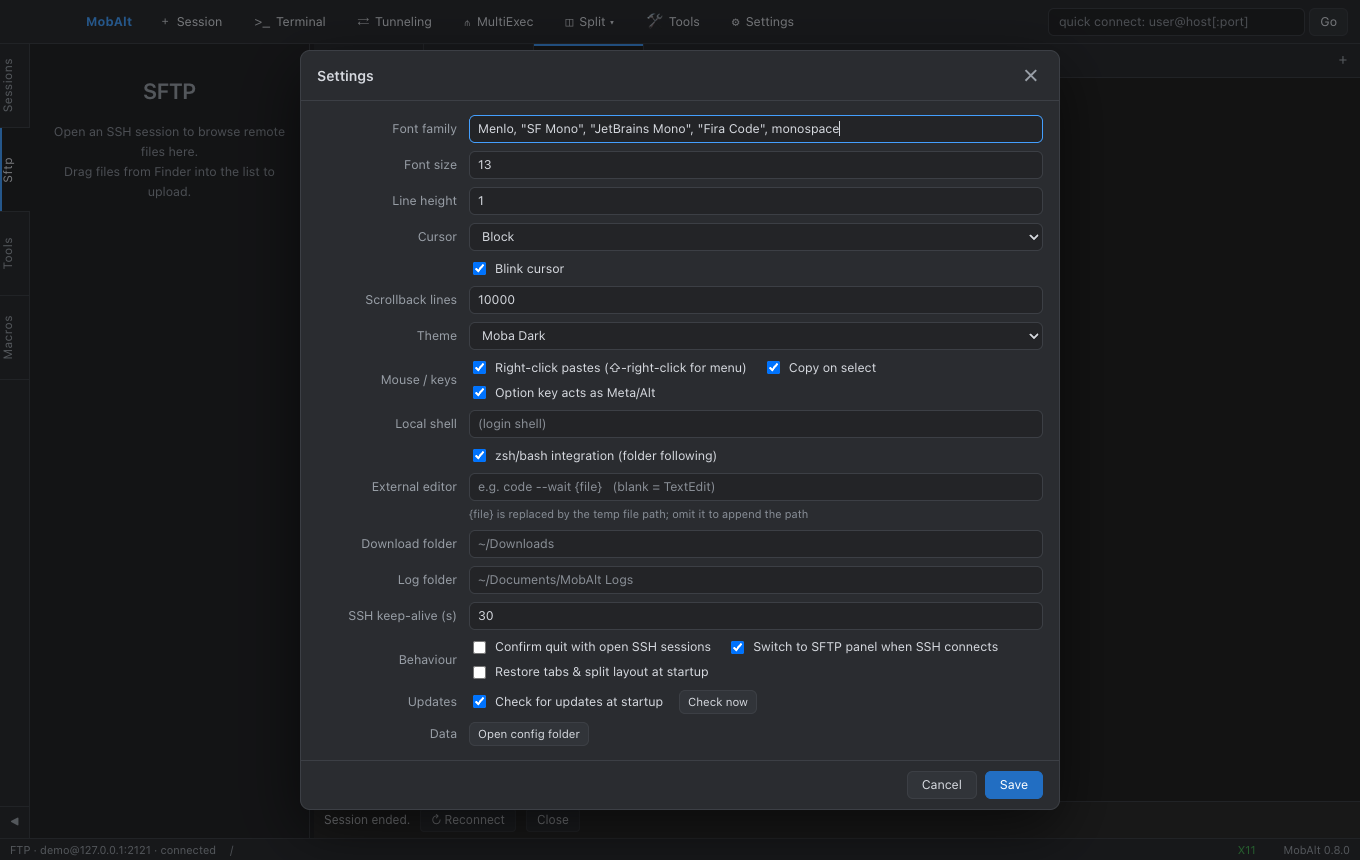
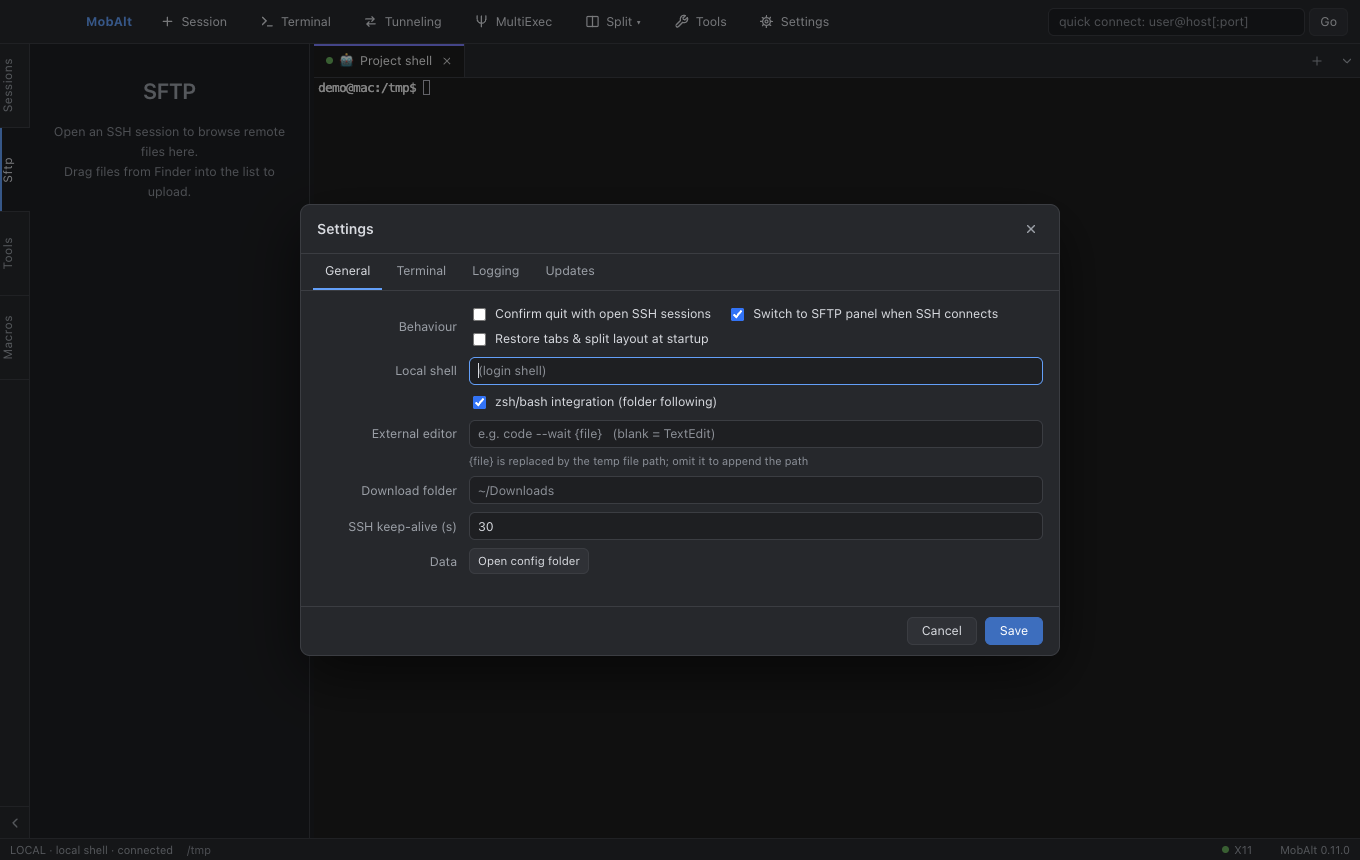
feat(ui): settings in tabs that fit the minimum window; compact shortcuts dialog
Settings was one long form that scrolled at heights <= 800px with the Updates row below
the fold. It is now four section tabs on the modal's .mtabs strip (General / Terminal /
Logging / Updates); every field keeps its id, label, persistence key and the Save/Cancel
semantics, "Check now" and its status line sit on Updates, and each tab fits 900x560
without scrolling (dialog <= 452px). The body keeps the height of the tallest tab so the
dialog does not jump between sections.

The Keyboard shortcuts dialog still scrolled vertically at 900x560: its rows are grouped
into section tabs (Sessions & tabs / Panes & terminal / Sidebar, SFTP & lists / Dialogs),
two columns each, and gain the dialog keys (confirm/close, Tab, section arrows).

modalTabs()/tabStripKeys() build the strip with tablist/tab/tabpanel roles; every tab is
a Tab stop like the session editor's and Left/Right/Home/End switch the section (the
session editor's strip gets the arrows too). The tab focus ring is drawn inset so the
scrolling body no longer clips it.

Tests: e2e-a11y meets the section tabs in the focus-trap block and checks every
shortcuts section at 900x560 (shortcutsFitSmallWindow); e2e-qa-fixes checks the four
settings tabs fit at 900x560, the first field is focused and fields round-trip through
Save from every tab. Docs name the tabs (Settings -> General/Terminal/Logging/Updates)
and the Settings screenshot is regenerated.

diff --git a/src/renderer/dialogs.js b/src/renderer/dialogs.js
@@ -64,6 +64,55 @@ function pickRow(label) {
   return row;
 }
 
+/**
+ * ←/→ (↑/↓) on a dialog's `.mtabs` strip move between its section tabs (wrapping, hidden ones skipped) and show that
+ * section; Home/End jump to the first/last. Every tab stays a Tab stop of its own, so Tab/⇧Tab reach them as well.
+ */
+function tabStripKeys(strip) {
+  strip.addEventListener('keydown', (e) => {
+    const tabs = [...strip.querySelectorAll('button:not([hidden])')];
+    const i = tabs.indexOf(e.target), n = tabs.length;
+    if (i < 0 || e.metaKey || e.ctrlKey || e.altKey) return;
+    let to;
+    if (e.key === 'ArrowRight' || e.key === 'ArrowDown') to = tabs[(i + 1) % n];
+    else if (e.key === 'ArrowLeft' || e.key === 'ArrowUp') to = tabs[(i - 1 + n) % n];
+    else if (e.key === 'Home') to = tabs[0];
+    else if (e.key === 'End') to = tabs[n - 1];
+    else return;
+    e.preventDefault();
+    to.focus();
+    to.click();
+  });
+  return strip;
+}
+let tabSeq = 0;
+/**
+ * Section tabs of a dialog: the `.mtabs` strip (a tablist) and one `.mpage` panel per section, the first one shown.
+ * `sections` = [[key, label, panel], …]; returns { strip, pages, show(key) }. Every panel stays in the DOM, so a
+ * Save handler reads all its fields whichever section is in front.
+ */
+function modalTabs(sections) {
+  const seq = ++tabSeq;
+  const btns = {}, pages = {};
+  const show = (k) => {
+    for (const key of Object.keys(pages)) {
+      pages[key].classList.toggle('active', key === k);
+      btns[key].classList.toggle('active', key === k);
+      btns[key].setAttribute('aria-selected', String(key === k));
+    }
+  };
+  const strip = tabStripKeys(h('div', { class: 'mtabs', role: 'tablist' }, sections.map(([k, label, page]) => {
+    page.classList.add('mpage');
+    page.id = `mtab-${seq}-${k}`;
+    page.setAttribute('role', 'tabpanel');
+    page.setAttribute('aria-label', label);
+    pages[k] = page;
+    return (btns[k] = h('button', { type: 'button', role: 'tab', 'aria-controls': page.id, onclick: () => show(k) }, label));
+  })));
+  show(sections[0][0]);
+  return { strip, pages, show };
+}
+
 /** Session editor. Resolves with the session object to save, or null. */
 export function sessionEditor(app, initial = {}) {
   const s = { type: 'ssh', port: 22, authMethod: 'auto', sftpAuto: true, followCwd: false, tunnels: [], ...initial };
@@ -219,7 +268,7 @@ export function sessionEditor(app, initial = {}) {
     tunnels: h('div', { class: 'mpage' }, h('p', { style: { color: 'var(--fg-dim)', marginTop: 0 } }, 'Port forwards started automatically when this session connects.'), tunnelTable),
   };
   const tabBtns = {};
-  const tabs = h('div', { class: 'mtabs' }, Object.keys(pages).map((k) => (tabBtns[k] = h('button', { onclick: () => showPage(k) }, { basic: 'Basic', advanced: 'Advanced SSH', terminal: 'Terminal', tunnels: `Tunnels` }[k]))));
+  const tabs = tabStripKeys(h('div', { class: 'mtabs' }, Object.keys(pages).map((k) => (tabBtns[k] = h('button', { onclick: () => showPage(k) }, { basic: 'Basic', advanced: 'Advanced SSH', terminal: 'Terminal', tunnels: `Tunnels` }[k])))));
   const showPage = (k) => {
     for (const [n, p] of Object.entries(pages)) {
       p.classList.toggle('active', n === k);
@@ -509,22 +558,36 @@ export function settingsDialog(app) {
       updStatus.textContent = e.message;
     }
   } }, 'Check now');
-  const m = showModal({
-    title: 'Settings',
-    width: 'wide',
-    body: h('div', { class: 'form-grid' },
+  // Four section tabs (General / Terminal / Logging / Updates): each fits the 900×560 minimum window without scrolling.
+  // Every field stays in the DOM whichever tab is in front, so Save reads them all.
+  const { strip, pages } = modalTabs([
+    ['general', 'General', h('div', { class: 'form-grid' },
+      h('label', {}, 'Behaviour'), h('div', { class: 'checks' }, confirmClose.el, sftpAutoOpen.el, restoreWs.el),
+      ...field('Local shell', localShell), h('label', {}), h('div', { class: 'checks' }, shellInt.el),
+      ...field('External editor', editor, '{file} is replaced by the temp file path; omit it to append the path'),
+      ...field('Download folder', downloadDir), ...field('SSH keep-alive (s)', keepAlive),
+      h('label', {}, 'Data'), h('div', {}, h('button', { class: 'btn small', onclick: () => window.api.shell.openPath(app.info.userData) }, 'Open config folder'))
+    )],
+    ['terminal', 'Terminal', h('div', { class: 'form-grid' },
       ...field('Font family', fontFamily), ...field('Font size', fontSize), ...field('Line height', lineHeight),
       ...field('Cursor', cursorStyle), h('label', {}), h('div', { class: 'checks' }, cursorBlink.el),
       ...field('Scrollback lines', scrollback), ...field('Theme', theme),
-      h('label', {}, 'Mouse / keys'), h('div', { class: 'checks' }, rightClickPaste.el, copyOnSelect.el, optMeta.el),
-      ...field('Local shell', localShell), h('label', {}), h('div', { class: 'checks' }, shellInt.el),
-      ...field('External editor', editor, '{file} is replaced by the temp file path; omit it to append the path'),
-      ...field('Download folder', downloadDir), ...field('Log folder', logDir), ...field('SSH keep-alive (s)', keepAlive),
-      h('label', {}, 'Logging'), h('div', { class: 'checks' }, logPlain.el),
-      h('label', {}, 'Behaviour'), h('div', { class: 'checks' }, confirmClose.el, sftpAutoOpen.el, restoreWs.el),
-      h('label', {}, 'Updates'), h('div', { class: 'checks' }, autoUpdate.el, checkNow, updStatus),
-      h('label', {}, 'Data'), h('div', {}, h('button', { class: 'btn small', onclick: () => window.api.shell.openPath(app.info.userData) }, 'Open config folder'))
-    ),
+      h('label', {}, 'Mouse / keys'), h('div', { class: 'checks' }, rightClickPaste.el, copyOnSelect.el, optMeta.el)
+    )],
+    ['logging', 'Logging', h('div', { class: 'form-grid' },
+      ...field('Log folder', logDir, 'Terminal → Start Session Log, or a session\'s Logging option, writes here'),
+      h('label', {}, 'Session logs'), h('div', { class: 'checks' }, logPlain.el)
+    )],
+    ['updates', 'Updates', h('div', { class: 'form-grid' },
+      h('label', {}, 'Updates'), h('div', { class: 'checks' }, autoUpdate.el),
+      h('div', { class: 'form-help' }, 'Releases on GitHub; a newer version is offered in a dialog and installed only when you agree'),
+      h('label', {}), h('div', { class: 'checks' }, checkNow, updStatus)
+    )],
+  ]);
+  const m = showModal({
+    title: 'Settings',
+    width: 'wide',
+    body: h('div', { class: 'settings-tabs' }, strip, ...Object.values(pages)),
     buttons: [
       { label: 'Cancel', value: null },
       { label: 'Save', primary: true, action: (api) => api.close({
@@ -595,19 +658,32 @@ export function kbdIntDialog(p) {
 }
 
 export function shortcutsDialog(app) {
-  const rows = [
-    ['New session', '⌘N'], ['New local terminal', '⌘T'], ['Quick connect', '⇧⌘N'], ['Duplicate session', '⇧⌘T'], ['Reconnect', '⌘R'], ['Close tab', '⌘W'],
-    ['Split right / down', '⌘D / ⇧⌘D'], ['Grid 2 / 4 / 6 / 8 panes', '⌥⌘2 / ⌥⌘4 / ⌥⌘6 / ⌥⌘8'], ['Unsplit', '⌥⌘1'], ['Close pane', '⇧⌘W'], ['Next pane', '⌘]'], ['Next / previous tab', '⌃Tab / ⌃⇧Tab'],
-    ['Find', '⌘F'], ['Clear terminal', '⌘K'], ['Zoom', '⌘= / ⌘- / ⌘0'], ['Toggle sidebar', '⌘B'], ['Sessions / SFTP / Tools / Macros', '⌘1 / ⌘2 / ⌘3 / ⌘4'],
-    ['MultiExec', '⇧⌘M'], ['Tunnels', '⇧⌘U'], ['Settings', '⌘,'], ['Copy / Paste', '⌘C / ⌘V'], ['Paste (terminal)', app.settings.rightClickPaste !== false ? 'Right-click' : '⌘V'], ['Terminal menu', app.settings.rightClickPaste !== false ? '⇧Right-click' : 'Right-click'],
-    ['Switch to tab 1-9', '⌃⌘1 … ⌃⌘9'], ['Newline in TUI apps (ESC+CR)', '⇧Enter / ⌥Enter'],
-    ['Focused tab: move / activate / close', '← → / ⏎ / ⌫'], ['Focused session row: move / fold / open', '↑ ↓ / ← → / ⏎'],
-    ['Focused session row: open in split / delete', '⌘⏎ or ⇧⏎ / ⌫'], ['Context menu: focused tab, row, macro, SFTP entry', '⇧F10 / Menu key'],
-    ['Focused macro: play / delete, context menu', '⏎ / ⌫, ⇧F10'], ['SFTP list: context menu / delete / parent folder', '⇧F10 or Menu / Del or ⌘⌫ / ⌫'],
-    ['SFTP list: move / open', '↑ ↓ Home End PgUp PgDn / ⏎'], ['SFTP list: extend selection / toggle row / select all', '⇧↑ ⇧↓ ⇧Home ⇧End / Space / ⌘A'],
-    ['SFTP list: sort by a column', 'Tab to a header, ⏎ or Space'], ['Session tree, SFTP list: jump to a name', 'type its first letters'],
-    ['Icon & colour picks: move / choose', '← → ↑ ↓ / ⏎ or Space'],
+  const rightClick = app.settings.rightClickPaste !== false;
+  // One section tab per area, each two columns of label + key chip (a chip that does not fit beside its label drops
+  // to its own line, styles.css .shortcuts): every section fits the 900×560 minimum window without scrolling.
+  const sections = [
+    ['sessions', 'Sessions & tabs', [
+      ['New session', '⌘N'], ['New local terminal', '⌘T'], ['Quick connect', '⇧⌘N'], ['Duplicate session', '⇧⌘T'], ['Reconnect', '⌘R'], ['Close tab', '⌘W'],
+      ['Next / previous tab', '⌃Tab / ⌃⇧Tab'], ['Switch to tab 1-9', '⌃⌘1 … ⌃⌘9'], ['Focused tab: move / activate / close', '← → / ⏎ / ⌫'],
+    ]],
+    ['panes', 'Panes & terminal', [
+      ['Split right / down', '⌘D / ⇧⌘D'], ['Grid 2 / 4 / 6 / 8 panes', '⌥⌘2 / ⌥⌘4 / ⌥⌘6 / ⌥⌘8'], ['Unsplit', '⌥⌘1'], ['Close pane', '⇧⌘W'], ['Next pane', '⌘]'],
+      ['Find', '⌘F'], ['Clear terminal', '⌘K'], ['Zoom', '⌘= / ⌘- / ⌘0'], ['Copy / Paste', '⌘C / ⌘V'], ['Paste (terminal)', rightClick ? 'Right-click' : '⌘V'], ['Terminal menu', rightClick ? '⇧Right-click' : 'Right-click'],
+      ['Newline in TUI apps (ESC+CR)', '⇧Enter / ⌥Enter'], ['MultiExec', '⇧⌘M'],
+    ]],
+    ['sidebar', 'Sidebar, SFTP & lists', [
+      ['Toggle sidebar', '⌘B'], ['Sessions / SFTP / Tools / Macros', '⌘1 / ⌘2 / ⌘3 / ⌘4'],
+      ['Focused session row: move / fold / open', '↑ ↓ / ← → / ⏎'], ['Focused session row: open in split / delete', '⌘⏎ or ⇧⏎ / ⌫'],
+      ['Focused macro: play / delete, context menu', '⏎ / ⌫, ⇧F10'], ['Context menu: focused tab, row, macro, SFTP entry', '⇧F10 / Menu key'],
+      ['SFTP list: context menu / delete / parent folder', '⇧F10 or Menu / Del or ⌘⌫ / ⌫'], ['SFTP list: move / open', '↑ ↓ Home End PgUp PgDn / ⏎'],
+      ['SFTP list: extend selection / toggle row / select all', '⇧↑ ⇧↓ ⇧Home ⇧End / Space / ⌘A'], ['SFTP list: sort by a column', 'Tab to a header, ⏎ or Space'],
+      ['Session tree, SFTP list: jump to a name', 'type its first letters'],
+    ]],
+    ['dialogs', 'Dialogs', [
+      ['Settings', '⌘,'], ['Tunnels', '⇧⌘U'], ['Icon & colour picks: move / choose', '← → ↑ ↓ / ⏎ or Space'],
+      ['Dialog: confirm / close', '⏎ / Esc'], ['Dialog: next / previous control', 'Tab / ⇧Tab'], ['Dialog tabs: previous / next, first / last section', '← → / Home End'],
+    ]],
   ];
-  // wide: two columns of label + key chip; a chip that does not fit beside its label drops to its own line (styles.css .shortcuts)
-  showModal({ title: 'Keyboard shortcuts', width: 'wide', body: h('div', { class: 'shortcuts' }, rows.map(([a, b]) => h('div', {}, h('span', {}, a), h('span', { class: 'kbd' }, b)))), buttons: [{ label: 'Close', value: null }] });
+  const { strip, pages } = modalTabs(sections.map(([k, label, rows]) => [k, label, h('div', {}, h('div', { class: 'shortcuts' }, rows.map(([a, b]) => h('div', {}, h('span', {}, a), h('span', { class: 'kbd' }, b)))))]));
+  showModal({ title: 'Keyboard shortcuts', width: 'wide', body: h('div', { class: 'shortcuts-tabs' }, strip, ...Object.values(pages)), buttons: [{ label: 'Close', value: null }] });
 }

diff --git a/test/e2e-a11y.js b/test/e2e-a11y.js
@@ -350,10 +350,30 @@
       results.modalTabWraps = active() === closeX;
       results.modalCloseRing = focusVisible(closeX);
       await shot('64-modal-close-focus-ring');
+      // the four section tabs sit between ✕ and Close in the Tab order (each one a Tab stop, like the session
+      // editor's); from a tab, ←/→ wrap through the sections and Home/End jump, showing one panel at a time
+      const stabs = [...m.querySelectorAll('.mtabs button')];
+      const showing = (b) => b.classList.contains('active') && b.getAttribute('aria-selected') === 'true' && m.querySelectorAll('.mpage.active').length === 1
+        && m.querySelector('.mpage.active').id === b.getAttribute('aria-controls') && m.querySelector('.mpage.active').offsetParent !== null;
       await press('Tab');
-      results.modalTabCycles = active() === closeBtn;
+      results.modalTabCycles = active() === stabs[0] && stabs.length === 4 && showing(stabs[0]);
+      results.modalTabRoles = m.querySelector('.mtabs').getAttribute('role') === 'tablist' && stabs.every((b) => b.getAttribute('role') === 'tab' && b.tabIndex === 0);
+      await press('ArrowRight');
+      results.modalTabArrowRight = active() === stabs[1] && showing(stabs[1]);
+      await press('End');
+      results.modalTabEnd = active() === stabs[3] && showing(stabs[3]);
+      await press('ArrowRight');
+      results.modalTabArrowWraps = active() === stabs[0] && showing(stabs[0]);
+      await press('ArrowLeft');
+      results.modalTabArrowLeftWraps = active() === stabs[3] && showing(stabs[3]);
+      await press('Home');
+      results.modalTabHome = active() === stabs[0] && showing(stabs[0]);
+      await press('End');
+      await press('Tab');
+      results.modalTabAfterStrip = active() === closeBtn; // the last section tab → Close
       await press('Tab', { shiftKey: true });
-      results.modalShiftTab = active() === closeX;
+      results.modalShiftTab = active() === stabs[3];
+      stabs[0].click();
       app.activePane().focus(); // focus wandered outside the dialog
       await sleep(30);
       await press('Tab');
@@ -362,23 +382,40 @@
       await sleep(200);
       results.modalEscReturnsToOpener = !modal() && active() === rowOf('web-01');
     }
-    // the Keyboard shortcuts dialog is wide, two columns, and nothing overflows sideways even at the smallest window;
-    // at 1400×900 the whole list is visible without scrolling (VIS-004)
+    // the Keyboard shortcuts dialog is wide, one section tab per area with two columns each, and nothing overflows
+    // sideways even at the smallest window, where every section is visible without scrolling (VIS-004);
+    // at 1400×900 as well
     {
+      const grid = () => modal().querySelector('.mpage.active .shortcuts'); // the section in front
       const fits = () => {
-        const m = modal(), body = m.querySelector('.modal-body'), grid = m.querySelector('.shortcuts');
-        return body.scrollWidth <= body.clientWidth && grid.scrollWidth <= grid.clientWidth && [...grid.children].every((d) => d.scrollWidth <= d.clientWidth + 1);
+        const m = modal(), body = m.querySelector('.modal-body'), g = grid();
+        return body.scrollWidth <= body.clientWidth && g.scrollWidth <= g.clientWidth && [...g.children].every((d) => d.scrollWidth <= d.clientWidth + 1);
       };
       const lines = (el) => Math.round(el.getBoundingClientRect().height / parseFloat(getComputedStyle(el).lineHeight));
+      const twoColumns = () => getComputedStyle(grid()).gridTemplateColumns.trim().split(/\s+/).length === 2;
+      const labelsWrapAtMostOnce = () => [...grid().querySelectorAll(':scope > div > span:first-child')].every((el) => lines(el) <= 2);
+      const sections = () => [...modal().querySelectorAll('.mtabs button')];
       await window.api.app.testResize(900, 560);
       await sleep(300);
       app.activePane().focus();
       app.action('shortcuts');
       await sleep(300);
-      results.shortcutsWideTwoColumns = modal().classList.contains('wide') && getComputedStyle(modal().querySelector('.shortcuts')).gridTemplateColumns.trim().split(/\s+/).length === 2;
+      results.shortcutsWideTwoColumns = modal().classList.contains('wide') && twoColumns();
       results.shortcutsNoHorizontalOverflowSmall = fits();
-      results.shortcutsLabelsWrapAtMostOnce = [...modal().querySelectorAll('.shortcuts > div > span:first-child')].every((el) => lines(el) <= 2);
+      results.shortcutsLabelsWrapAtMostOnce = labelsWrapAtMostOnce();
       await shot('82-shortcuts-900x560');
+      {
+        const body = modal().querySelector('.modal-body'), fit = {};
+        for (const b of sections()) {
+          b.click();
+          await sleep(60);
+          fit[b.textContent] = b.classList.contains('active') && fits() && twoColumns() && labelsWrapAtMostOnce() && body.scrollHeight <= body.clientHeight
+            && modal().getBoundingClientRect().bottom <= window.innerHeight && modal().getBoundingClientRect().right <= window.innerWidth;
+        }
+        log('shortcuts sections at 900×560', JSON.stringify(fit));
+        results.shortcutsFitSmallWindow = Object.keys(fit).join('|') === 'Sessions & tabs|Panes & terminal|Sidebar, SFTP & lists|Dialogs' && Object.values(fit).every(Boolean);
+        sections()[0].click();
+      }
       await press('Escape');
       await sleep(200);
       await window.api.app.testResize(1400, 900);

diff --git a/test/e2e-qa-fixes.js b/test/e2e-qa-fixes.js
@@ -113,6 +113,59 @@
     closeModal();
     await sleep(150);
 
+    // --- settings: four section tabs (General / Terminal / Logging / Updates), each fits the 900×560 minimum window
+    //     without scrolling; the first field of the first tab is focused; "Check now" and its status line are on
+    //     Updates; a field changed on any tab round-trips through Save (and Cancel keeps the saved values)
+    {
+      const size0 = { w: window.outerWidth, h: window.outerHeight };
+      await window.api.app.testResize(900, 560);
+      await sleep(300);
+      const before = { ...app.settings };
+      app.action('settings');
+      await sleep(400);
+      const m = document.querySelector('.modal'), body = m.querySelector('.modal-body');
+      const tabs = [...m.querySelectorAll('.mtabs button')];
+      results.settingsTabNames = tabs.map((b) => b.textContent).join('|') === 'General|Terminal|Logging|Updates';
+      results.settingsFirstFieldFocused = document.activeElement === m.querySelector('.mpage.active input[type=text]') && m.querySelector('.mpage.active') === m.querySelector('.mpage') && tabs[0].classList.contains('active');
+      const fit = {};
+      for (const b of tabs) {
+        b.click();
+        await sleep(80);
+        const page = m.querySelector('.mpage.active');
+        fit[b.textContent] = !!page && page.id === b.getAttribute('aria-controls') && b.classList.contains('active') && m.querySelectorAll('.mpage.active').length === 1
+          && body.scrollHeight <= body.clientHeight && body.scrollWidth <= body.clientWidth && page.scrollWidth <= page.clientWidth
+          && m.getBoundingClientRect().bottom <= window.innerHeight && m.getBoundingClientRect().right <= window.innerWidth;
+        await shot(`56-settings-${b.textContent.toLowerCase()}-900x560`);
+      }
+      log('settings tabs at 900×560', JSON.stringify(fit));
+      results.settingsTabsFit900x560 = Object.keys(fit).length === 4 && Object.values(fit).every(Boolean);
+      const upd = m.querySelector('.mpage.active'); // Updates is in front now
+      results.settingsCheckNowOnUpdates = tabs[3].classList.contains('active') && [...upd.querySelectorAll('button')].some((x) => x.textContent === 'Check now') && !!upd.querySelector('.upd-status');
+      const fieldOf = (root, txt) => [...root.querySelectorAll('.form-grid > label')].find((l) => l.textContent === txt)?.nextElementSibling;
+      const cbOf = (root, txt) => [...root.querySelectorAll('.checks label')].find((l) => l.textContent.includes(txt))?.querySelector('input[type=checkbox]');
+      tabs[0].click(); fieldOf(m, 'SSH keep-alive (s)').value = '45'; cbOf(m, 'Confirm quit').checked = true;
+      tabs[1].click(); fieldOf(m, 'Font size').value = '15'; fieldOf(m, 'Theme').value = 'dracula'; cbOf(m, 'Copy on select').checked = true;
+      tabs[2].click(); fieldOf(m, 'Log folder').value = '/private/tmp/mobalt-logs-roundtrip'; cbOf(m, 'Strip colours').checked = true;
+      tabs[3].click(); cbOf(m, 'Check for updates').checked = false;
+      m.querySelector('.modal-foot .btn.primary').click(); // Save
+      await sleep(400);
+      const s = app.settings;
+      results.settingsRoundTripSaved = !document.querySelector('.modal') && s.keepAliveInterval === 45 && s.confirmClose === true && s.fontSize === 15 && s.theme === 'dracula'
+        && s.copyOnSelect === true && s.logDir === '/private/tmp/mobalt-logs-roundtrip' && s.logPlainText === true && s.autoUpdate === false;
+      app.action('settings');
+      await sleep(400);
+      const m2 = document.querySelector('.modal');
+      results.settingsRoundTripShown = fieldOf(m2, 'SSH keep-alive (s)').value === '45' && cbOf(m2, 'Confirm quit').checked && fieldOf(m2, 'Font size').value === '15' && fieldOf(m2, 'Theme').value === 'dracula'
+        && cbOf(m2, 'Copy on select').checked && fieldOf(m2, 'Log folder').value === '/private/tmp/mobalt-logs-roundtrip' && cbOf(m2, 'Strip colours').checked && !cbOf(m2, 'Check for updates').checked;
+      fieldOf(m2, 'Font size').value = '20';
+      m2.querySelector('.modal-foot .btn').click(); // Cancel
+      await sleep(200);
+      results.settingsCancelKeepsSaved = !document.querySelector('.modal') && app.settings.fontSize === 15;
+      await app.saveSettings({ keepAliveInterval: before.keepAliveInterval, confirmClose: false, fontSize: before.fontSize, theme: before.theme, copyOnSelect: before.copyOnSelect, logDir: before.logDir, logPlainText: before.logPlainText, autoUpdate: before.autoUpdate });
+      await window.api.app.testResize(size0.w, size0.h);
+      await sleep(300);
+    }
+
     // --- sidebar: filter without matches shows the empty state; root menu from the gutter
     await app.saveSession({ name: 'db-01', folder: 'Production/EU', type: 'ssh', host: 'db-01.example.com', username: 'postgres' });
     await app.saveSession({ name: 'Project shell', type: 'local', cwd: '/tmp' });

diff --git a/src/renderer/styles.css b/src/renderer/styles.css
@@ -520,3 +520,13 @@ body.find-open #toast-root { bottom: calc(anchor(--find-bar top, 92px) + 8px); }
 .pane .pane-placeholder.ftp-info .ftp-err { color: color-mix(in srgb, var(--red) 70%, var(--term-fg)); }
 /* Update banner at the 900 px minimum width: the call to action never ends up as a one-word line. */
 #update-banner .keep { white-space: nowrap; }
+/* ---- settings tabs ---- */
+/* Settings and Keyboard shortcuts are section tabs now (the session editor's .mtabs strip): every section fits the
+   900×560 minimum window without scrolling. The focus ring of a tab is drawn inside it: the strip sits on the body's
+   top edge, where an outside ring would be clipped by the scrolling body. */
+.mtabs button:focus { outline: none; }
+.mtabs button:focus-visible { outline: 2px solid var(--accent); outline-offset: -2px; border-radius: var(--radius-s); }
+/* The body keeps the height of its tallest section (Settings → Terminal, Shortcuts → Sidebar), so the dialog does not
+   jump when a short one (Logging, Updates, Dialogs) comes to the front; both still fit at 560px (dialog ≤ 452px). */
+.settings-tabs { min-height: 338px; }
+.shortcuts-tabs { min-height: 302px; }

diff --git a/docs/USER_GUIDE.md b/docs/USER_GUIDE.md
@@ -32,7 +32,7 @@ downloaded or installed without your confirmation. See [Updating](#updating).
 Three paths lead to a new release; all of them end with the new bundle at `/Applications/MobAlt.app`:
 
 - **In-app updater**: MobAlt checks GitHub Releases at startup (turn this off in Settings → Updates) and
-  Help → Check for Updates… or the "Check now" button in Settings runs the check by hand. A newer
+  Help → Check for Updates… or "Check now" in Settings → Updates runs the check by hand. A newer
   version is offered in a dialog, downloaded only when you say so and installed when you quit, or right
   away with "Restart now".
 - **Homebrew**: `brew upgrade --cask mobalt` replaces the app in Applications.
@@ -110,7 +110,7 @@ a local session with *Start folder* set to a project and `claude --resume <id>` 
   the servers you want to drive side by side. The banner shows how many visible terminals listen and
   follows the tab you switch to.
 - **Find** (⌘F): incremental search with case and regex toggles and a match counter.
-- **Clipboard**: selecting copies (Settings → Copy on select); right-click pastes
+- **Clipboard**: selecting copies (Settings → Terminal → Copy on select); right-click pastes
   (⇧-right-click opens the menu). Dropping files from Finder on an SSH terminal uploads them;
   on a local terminal it pastes the paths.
 - **Keys**: Shift+Enter and Option+Enter send ESC+CR (a newline in TUI apps such as Claude Code);
@@ -118,7 +118,7 @@ a local session with *Start folder* set to a project and `claude --resume <id>` 
 - **Logging**: Terminal → Start/Stop Session Log, or the session option, writes the raw output to
   `~/Documents/MobAlt Logs/`. Settings → Logging → *Strip colours and control sequences* keeps the
   logs as plain text instead (ANSI colours, cursor movement and the folder-tracking hook are removed).
-- **Themes and fonts**: Settings → Theme/Font apply to all terminals; a session can override them in
+- **Themes and fonts**: Settings → Terminal → Theme / Font apply to all terminals; a session can override them in
   its Terminal tab.
 
 ## Files (SFTP / FTP)
@@ -126,7 +126,7 @@ a local session with *Start folder* set to a project and `claude --resume <id>` 
 ![SFTP panel](images/sftp-panel.png)
 
 The **Sftp** panel follows the active SSH or FTP pane. It opens automatically on connect
-(Settings → "Switch to SFTP panel when SSH connects").
+(Settings → General → "Switch to SFTP panel when SSH connects").
 
 - Navigate by double-clicking folders, typing a path (`~` works) or using ⬆ / 🏠 / ⟳.
   "Follow terminal folder" keeps the panel on the shell's current directory (needs the session
@@ -134,7 +134,7 @@ The **Sftp** panel follows the active SSH or FTP pane. It opens automatically on
 - Toolbar and context menu: new folder, rename, permissions, delete, download, upload. Multi-select
   with ⌘ / ⇧. Drag files from Finder onto the list to upload; existing names ask before overwriting.
 - Double-click a text file to edit it in the built-in editor (⌘S saves back). "Edit in external
-  editor" opens it in your editor (Settings → External editor) and re-uploads on every save.
+  editor" opens it in your editor (Settings → General → External editor) and re-uploads on every save.
 - Transfers show progress, speed and a cancel button; "Show in Finder" after a download.
 - Column headers sort by name, size or date. When the sidebar is narrow the date column hides.
 
@@ -163,7 +163,7 @@ connects, and you are told if one fails to bind.
 - **Mosh + SFTP**: mosh carries no SFTP channel, so the Sftp panel browses a Mosh host through a
   separate shell-less SSH connection to the same host (same key, agent and prompts). It opens
   automatically when "Open SFTP browser automatically" is on for the session (and "Switch to SFTP
-  panel" in Settings), otherwise from the panel's "Open SFTP for this host (via SSH)" button or the
+  panel" in Settings → General), otherwise from the panel's "Open SFTP for this host (via SSH)" button or the
   pane menu's "Open SFTP Browser"; it is dropped together with the pane.
 - **Serial**: the editor lists USB-serial devices; set baud, data/stop bits, parity, flow control,
   local echo and what Enter sends (CR, LF, CRLF).
@@ -181,13 +181,16 @@ connects, and you are told if one fails to bind.
 ## Workspace and settings
 
 MobAlt restores your tabs, splits and sessions on the next launch and reconnects SSH sessions
-(local shells reopen in their last folder). Turn this off in Settings → Behaviour.
+(local shells reopen in their last folder). Turn this off in Settings → General → Behaviour.
 
 ![Settings](images/settings.png)
 
-Settings cover fonts, cursor, scrollback, theme, mouse/keys, the local shell and its folder
-integration, the external editor, download and log folders, SSH keep-alive, close confirmation,
-workspace restore and the update check. "Open config folder" shows where everything is stored.
+Settings has four tabs, each of which fits the smallest window without scrolling: **General**
+(quit confirmation, the SFTP panel switch, workspace restore, the local shell and its folder
+integration, the external editor, the download folder, SSH keep-alive, and "Open config folder",
+which shows where everything is stored), **Terminal** (font, line height, cursor, scrollback, theme,
+mouse/keys), **Logging** (log folder, plain-text session logs) and **Updates** (the startup check
+and "Check now").
 
 ## Keyboard shortcuts
 
